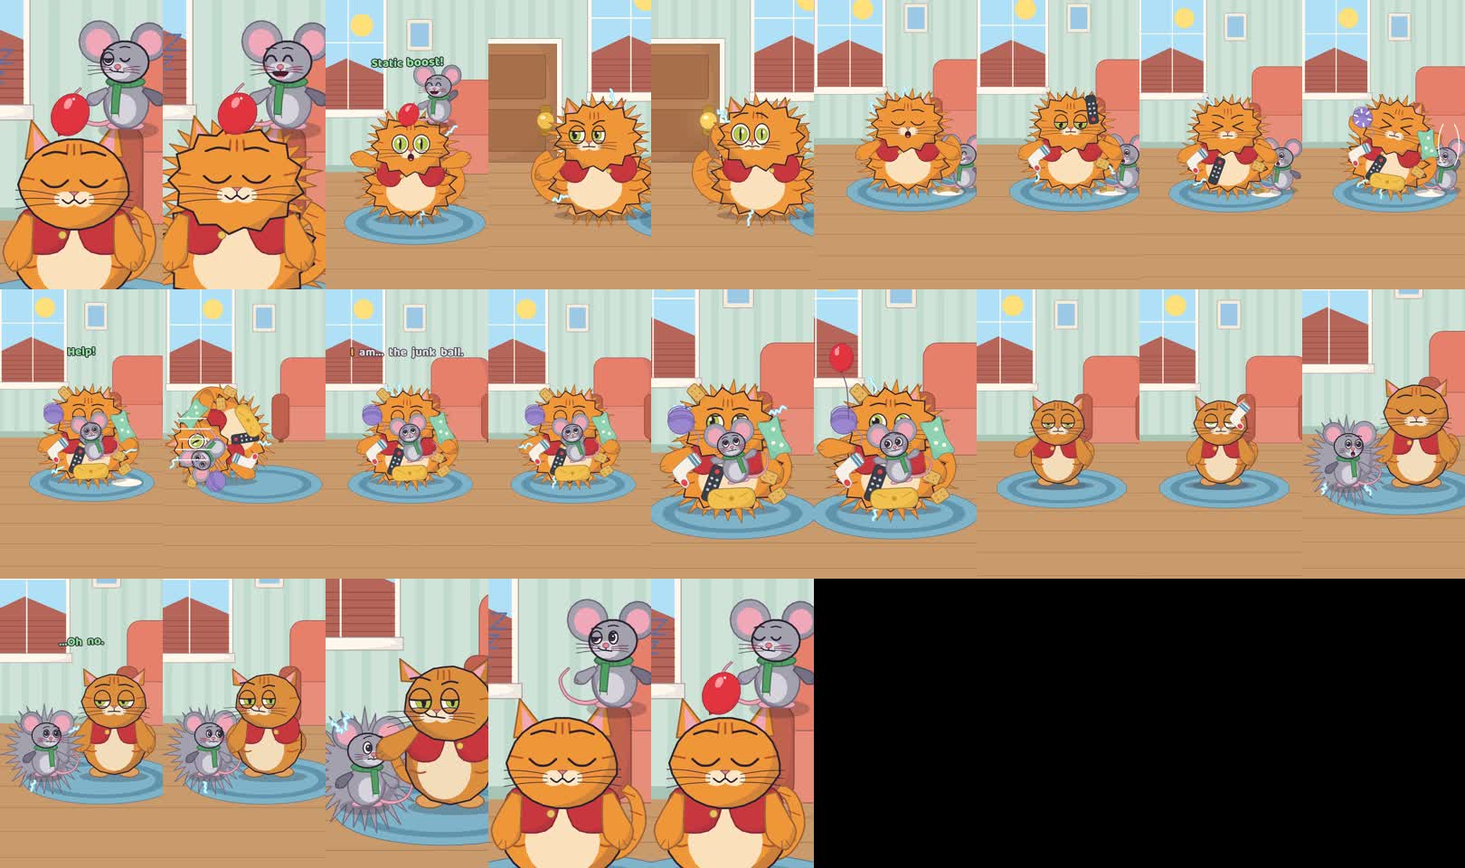
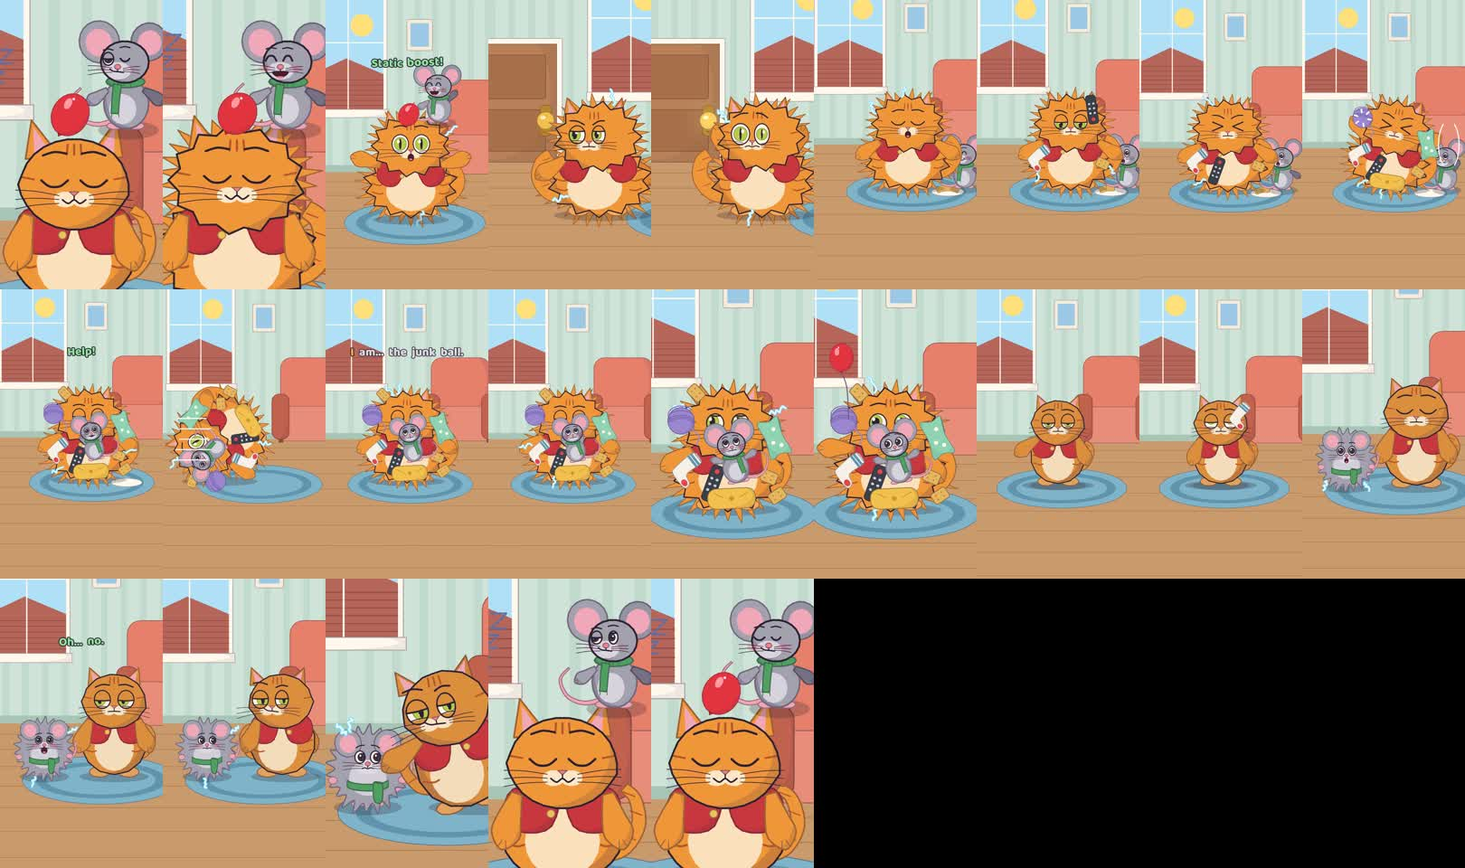
12-static-zap: more emotional voices (pick_takes.py: pitch/loudness scoring + whisper word check), puffball Pip 'tufts', rig: wet ears no longer float
Claude-Session: https://claude.ai/code/session_01WxLgLCMvMcVaDmvrqqXGT7

diff --git a/stories/12-static-zap/src/props.js b/stories/12-static-zap/src/props.js
@@ -180,3 +180,85 @@ function puffPip(x, y, u, o, k, t) {
   pip(x, y, u, o);
   if (o.sparks !== false) { push(); translate(x, y + dy); sparks(0, -3.0 * u, 3.1 * u * r, 3.4 * u * r, t, 2, 1.2 * u, 9); pop(); }
 }
+
+// ---------- puffball Pip v2: four candidate looks (style 'cotton' | 'dandelion' | 'tufts' | 'frizz') ----------
+// A soft scalloped outline: bumps round an ellipse (cx, cy, rx, ry), n bumps, bump size b (0..1 of the radius).
+function fluffPts(cx, cy, rx, ry, n = 16, b = .12, t = 0, wob = 0, seed = 1) {
+  const pts = [];
+  for (let i = 0; i < n; i++) for (let k = 0; k <= 6; k++) {
+    const a = (i + k / 6) / n * TAU, bump = Math.sin(k / 6 * Math.PI) * b * (1 + .25 * hash(i + seed)) + wob * Math.sin(t * 25 + i) * .02;
+    pts.push([cx + Math.cos(a) * rx * (1 + bump), cy + Math.sin(a) * ry * (1 + bump)]);
+  }
+  return pts;
+}
+// Pip's face, ears, feet and tail on their own (for the ball looks): the body is hidden inside the fluff.
+function pipBits(u, o, sw, part) {
+  const C = PIP_COL, cu = CAST_CUTE;
+  if (part === 'back') {   // tail, standing bristly, and the feet
+    paint(ribbon(_P(u, [[1.6, -1.0], [2.8, -1.6], [3.6, -2.9], [3.5, -4.0]]), u * .34, u * .14), { wash: C.tail, ink: PAL.ink, sw: sw * .6 });
+    for (let k = 0; k < 5; k++) { const y = -1.3 - k * .55, x = 2.1 + k * .32; inkLine([[x * u, y * u], [(x + .35) * u, (y - .25) * u]], sw * .8, C.tail, 'ink', 0); }
+    for (const s of [-1, 1]) paint(ellPts(s * .8 * u, -.2 * u, .55 * u, .25 * u, 10), { wash: C.tail, ink: PAL.ink, sw: sw * .6 });
+  }
+}
+function puffPip2(x, y, u, o, k, t, style = 'cotton') {
+  const C = PIP_COL, sw = clamp(u / 17, .45, 2.6) * .93, r = 1 + .3 * Math.max(0, k - 1), dy = (o.dy || 0) * u;
+  const cx = 0, cy = -3.1 * u, rx = 2.6 * u * r, ry = 2.75 * u * r;
+  push(); translate(x, y + dy); rotate(o.rot || 0);
+  if (!o.noShadow) castShadow(0, 0, u * 2.6 * r, u, o.dy);
+  pipBits(u, o, sw, 'back');
+  if (style === 'cotton') {
+    paint(fluffPts(cx, cy, rx * 1.08, ry * 1.08, 14, .14, t, 1, 3), { wash: C.dk, ink: null });
+    paint(fluffPts(cx, cy, rx, ry, 14, .14, t, 1, 3), { wash: mixCol(C.col, '#FFFFFF', .18), ink: PAL.ink, sw: sw * .9, shade: true, shadeK: .5 });
+    for (let i = 0; i < 9; i++) { const a = hash(i * 3) * TAU, d = .35 + .45 * hash(i * 5); const px = cx + Math.cos(a) * rx * d, py = cy + Math.sin(a) * ry * d; inkLine(arcPts(px, py, u * .35, u * .2, Math.PI * 1.1, Math.PI * 1.9, 5), sw * .7, C.dk, 'ink', .3); }
+    for (const s of [-1, 0, 1]) paint(fluffPts(cx + s * .55 * u, cy - ry * 1.02 - (s ? 0 : .25 * u), .5 * u, .55 * u, 5, .25, t, 1, 4 + s), { wash: mixCol(C.col, '#FFFFFF', .18), ink: PAL.ink, sw: sw * .8 });   // a tuft on top
+  } else if (style === 'dandelion') {
+    for (let i = 0; i < 90; i++) { const a = i / 90 * TAU + hash(i) * .05, l = 1 + .12 * hash(i * 7) + .02 * Math.sin(t * 30 + i); inkLine([[cx + Math.cos(a) * rx * .5, cy + Math.sin(a) * ry * .5], [cx + Math.cos(a) * rx * 1.2 * l, cy + Math.sin(a) * ry * 1.2 * l]], sw * .9, i % 3 ? C.col : C.lt, 'ink', 0); }
+    paint(ellPts(cx, cy, rx * .95, ry * .95, 30), { wash: C.col, washOp: 200, ink: null });
+  } else if (style === 'tufts') {
+    const pts = []; for (let i = 0; i < 44; i++) { const a = i / 44 * TAU, out = i % 2 ? 1.18 + .1 * hash(i) + .03 * Math.sin(t * 30 + i) : .96; pts.push([cx + Math.cos(a + (i % 2 ? .05 : 0)) * rx * out, cy + Math.sin(a) * ry * out]); }
+    paint(pts, { wash: C.col, ink: PAL.ink, sw: sw * .9, curv: .35, shade: true, shadeK: .5 });
+    paint(ellPts(cx, cy + ry * .25, rx * .55, ry * .5, 20), { wash: C.lt, washOp: 200, ink: null });
+  }
+  if (style !== 'frizz') {
+    // ears poke out of the top, face sits in the upper middle of the ball
+    push(); translate(cx, cy - ry * .25);
+    for (const s of [-1, 1]) { push(); translate(s * 1.5 * u * r, -1.25 * u * r); rotate(s * .45); paint(ellPts(0, 0, 1.1 * u, 1.15 * u, 18), { wash: C.col, ink: PAL.ink, sw: sw * .8 }); paint(ellPts(0, .05 * u, .72 * u, .76 * u, 14), { wash: C.inner, ink: null }); pop(); }
+    pipFace(u, o, sw, t);
+    pop();
+    // the scarf round the "neck" of the ball, its end flapping, and two tiny paws poking out of the sides
+    const ny = cy + ry * .38;
+    paint([...arcPts(cx, ny - .3 * u, rx * .62, .45 * u, Math.PI * .92, Math.PI * .08, 12), ...arcPts(cx, ny + .25 * u, rx * .62, .45 * u, Math.PI * .08, Math.PI * .92, 12)], { wash: C.scarf, ink: PAL.ink, sw: sw * .8 });
+    paint([[cx + .5 * u, ny], [cx + 1.2 * u, ny + .1 * u], [cx + 1.1 * u + Math.sin(t * 12) * .1 * u, ny + 1.6 * u], [cx + .55 * u, ny + 1.5 * u]], { wash: C.scarf, ink: PAL.ink, sw: sw * .8, curv: .3 });
+    for (const s of [-1, 1]) paint(ellPts(cx + s * rx * 1.02, cy + ry * .3 + Math.sin(t * 9 + s) * 3, .38 * u, .3 * u, 10), { wash: C.tail, ink: PAL.ink, sw: sw * .6 });
+    if (o.sparks !== false) sparks(cx, cy, rx * 1.15, ry * 1.15, t, 2, 1.1 * u, 9);
+    pop(); return;
+  }
+  pop();
+  // frizz: Pip as usual, with a big frizzy hair cloud BEHIND his head (it frames the face) and a bottle-brush tail
+  push(); translate(x, y + dy - 6.3 * u);
+  paint(fluffPts(0, 0, 2.6 * u * r, 1.9 * u * r, 12, .2, t, 1, 5), { wash: C.dk, ink: PAL.ink, sw: sw * .8 });
+  for (let i = 0; i < 7; i++) { const a = Math.PI + (i + .5) / 7 * Math.PI; inkLine(arcPts(Math.cos(a) * 1.9 * u, Math.sin(a) * 1.3 * u, .3 * u, .2 * u, 0, 4, 6), sw * .7, PAL.ink, 'ink', .3); }
+  pop();
+  pip(x, y, u, { ...o, noShadow: true });
+  if (o.sparks !== false) sparks(x, y + dy - 4 * u, 2.6 * u, 3.4 * u, t, 2, 1.1 * u, 9);
+}
+// Pip's front face (eyes, brows, snout, nose, mouth, whiskers, blush) at the origin, head radius ~1.5u. Mirrors pip()'s
+// front view, so faces()/who still work.
+function pipFace(u, o, sw, t) {
+  const C = PIP_COL, cu = CAST_CUTE, hs = 1 + cu * .18;
+  const talk = o.talk ?? (o.who && typeof SPEAK === 'function' ? SPEAK(o.who, T) : 0);
+  push(); scale(hs, hs);
+  paint(ellPts(0, .55 * u, .85 * u, .55 * u, 14), { wash: C.lt, washOp: 230, ink: null });
+  const blush = clamp((o.blush || 0) + cu * .35);
+  if (blush) for (const s of [-1, 1]) paint(ellPts(s * .95 * u, .4 * u, (.36 + cu * .08) * u, (.2 + cu * .04) * u, 10), { wash: '#E8607A', washOp: 160 * blush, ink: null });
+  const kinds = Array.isArray(o.eyes) ? o.eyes : [o.eyes || 'open', o.eyes || 'open'];
+  for (const s of [-1, 1]) {
+    const ex = s * .58 * u, ey = -.2 * u;
+    push(); translate(ex, ey); castEye(kinds[s < 0 ? 0 : 1], s, .3 * u * (1 + cu * .2), .36 * u * (1 + cu * .2), { ...o, cute: cu }, sw * .8, C.col, '#3A3045', 'cat'); pop();
+    castBrow(ex, ey, .55 * u, .55 * u, s, o.brow || 0, (o.browUp || 0) + (s < 0 ? o.browL || 0 : o.browR || 0), sw * .6);
+  }
+  paint(ellPts(0, .3 * u, .2 * u, .16 * u, 10), { wash: C.nose, ink: PAL.ink, sw: sw * .45 });
+  push(); translate(0, .45 * u); castMouth(o.mouth || 'w', talk, .6 * u, sw * .8); pop();
+  for (const s of [-1, 1]) castWhiskers(s * .35 * u, .5 * u, s, 1.5 * u, sw * .8);
+  pop();
+}

diff --git a/stories/12-static-zap/src/scenes/shots.js b/stories/12-static-zap/src/scenes/shots.js
@@ -201,21 +201,21 @@
     pumpkin(KX, FY, U, { ...faces(t, [[32.5, 'soggy', { lid: .55 }], [34.0, 'soggy', { lid: .55, lookX: -1 }], [36.4, 'smug', { lookX: -1 }]]), wet: .45, view: t > 36 ? 'q' : 'front', flip: t > 36, aL: -1.2, aR: -1.2, boilKey: 'pk' });
     const fall = seg(t, 32.5, land), bounce = t > land ? Math.abs(Math.sin((t - land) * 9)) * Math.exp(-(t - land) * 5) * .9 : 0;
     const py = t < land ? lerp(FY - 1100, FY, easeIn(fall)) : FY;
-    puffPip(PX, py, U, { ...faces(t, [[32.5, 'panic'], [land, 'surprised', { eyes: 'wide' }], [34.4, 'neutral', { lookY: 1, lookX: -.3 }], [34.9, 'sheepish', { lookY: .2 }]]), view: 'q', dy: -bounce, aL: t > 34.3 && t < 34.9 ? .3 : -.7, aR: -.7, who: 'pip', noShadow: t < land, boilKey: 'pip' }, t < land ? 1.1 : 1.3, t);
+    puffPip2(PX, py, U, { ...faces(t, [[32.5, 'panic'], [land, 'surprised', { eyes: 'wide' }], [34.4, 'neutral', { lookY: 1, lookX: -.3 }], [34.9, 'sheepish', { lookY: .2 }]]), view: 'q', dy: -bounce, aL: t > 34.3 && t < 34.9 ? .3 : -.7, aR: -.7, who: 'pip', noShadow: t < land, boilKey: 'pip' }, t < land ? 1.1 : 1.3, t, 'tufts');
     burst(PX, FY - 120, 180, (t - land) / .35, 10, '#FFFFFF', 7);
     camEnd();
   }
 
   // 10 · 38–42 · Close: one soggy paw reaches out, slowly, to Pip's nose. "Boop." CRACK! Pip doubles in size.
   function s10(t) {
-    const PX = 300, KX = 600, zap = 40.6, z = lerp(1.45, 2.0, ease(seg(t, 38, 38.6)));
-    cam(lerp(470, 440, ease(seg(t, 38, 38.6))), lerp(1300, 1265, ease(seg(t, 38, 38.6))), z, shake(t, zap, 16, .5));
+    const PX = 300, KX = 660, zap = 40.6, z = lerp(1.45, 2.0, ease(seg(t, 38, 38.6)));
+    cam(lerp(470, 430, ease(seg(t, 38, 38.6))), lerp(1300, 1265, ease(seg(t, 38, 38.6))), z, shake(t, zap, 16, .5));
     room(t);
     const reach = ease(seg(t, 38.6, 40.2));
     const k = t < zap ? 1.3 : lerp(1.3, 2.2, backOut(seg(t, zap, zap + .3)));
-    puffPip(PX, FY, U, { ...faces(t, [[38, 'sheepish', { lookX: 1 }], [39.4, 'panic', { lookX: 1, eyes: 'wide' }], [zap, 'surprised', { eyes: 'wide', pupil: 0 }], [41.4, 'deadpan', { lookX: 1 }]]), view: 'q', aL: -.7, aR: -.7, boilKey: 'pip' }, k, t);
-    pumpkin(KX, FY, U, { ...faces(t, [[38, 'smug', { lookX: -1 }], [zap, 'happy', { mouth: 'grin' }]]), wet: .45, view: 'q', flip: true, aR: lerp(-1.2, -.6, reach) + (t > zap ? .5 * ease(seg(t, zap, zap + .2)) : 0), aL: -1.2, who: 'pumpkin', boilKey: 'pk' });
-    if (t > zap && t < zap + .4) zapBolt(345, 1355, 250, 1250, t, 5, 8);
+    puffPip2(PX, FY, U, { ...faces(t, [[38, 'sheepish', { lookX: 1 }], [39.4, 'panic', { lookX: 1, eyes: 'wide' }], [zap, 'surprised', { eyes: 'wide', pupil: 0 }], [41.4, 'deadpan', { lookX: 1 }]]), view: 'q', aL: -.7, aR: -.7, boilKey: 'pip' }, k, t, 'tufts');
+    pumpkin(KX, FY, U, { ...faces(t, [[38, 'smug', { lookX: -1 }], [zap, 'happy', { mouth: 'grin' }]]), wet: .45, view: 'q', flip: true, rot: -.25 * reach * (1 - ease(seg(t, zap + .2, zap + .6))), aR: lerp(-1.2, -.4, reach) - (t > zap ? .8 * ease(seg(t, zap, zap + .35)) : 0), aL: -1.2, who: 'pumpkin', boilKey: 'pk' });
+    if (t > zap && t < zap + .4) zapBolt(310, 1372, 190, 1240, t, 5, 8);
     flash(t > zap && t < zap + .08 ? .9 : 0, 440, 1300);
     camEnd();
   }

diff --git a/stories/12-static-zap/src/cover.js b/stories/12-static-zap/src/cover.js
@@ -11,6 +11,24 @@
     zapBolt(450, 1700, 750, 1650, t, 4);
   };
   LOOPS.props.len = 2;
+  LOOPS.pipball = t => {
+    paint(rectPts(-10, -10, W + 20, H + 20), { wash: '#CFE3D8', ink: null });
+    paint(rectPts(-10, 1500, W + 20, 500), { wash: '#C99A6B', ink: null });
+    const F = { ...face('surprised', { eyes: 'wide' }) };
+    [['cotton', 270, 820], ['dandelion', 810, 820], ['tufts', 270, 1700], ['frizz', 810, 1700]].forEach(([st, x, y], i) => {
+      puffPip2(x, y, 44, { ...F, view: 'front', aL: -.7, aR: -.7, boilKey: 'pb' + i }, 1.3, t, st);
+      letter(['A cotton', 'B dandelion', 'C tufts', 'D frizz'][i], x, y - 560, 70, '#2B2233', { font: '800 70px "Baloo 2", sans-serif', screen: true });
+    });
+  };
+  LOOPS.pipball.len = 2;
+  LOOPS.wetears = t => {
+    paint(rectPts(-10, -10, W + 20, H + 20), { wash: '#CFE3D8', ink: null });
+    [[0, 'front', false], [.45, 'front', false], [1, 'front', false], [0, 'q', true], [.45, 'q', true], [1, 'q', false]].forEach(([w, v, f], i) => {
+      pumpkin(200 + (i % 3) * 340, 860 + Math.floor(i / 3) * 900, 34, { ...face('soggy'), wet: w, view: v, flip: f, boilKey: 'we' + i });
+      letter('wet ' + w + ' ' + v, 200 + (i % 3) * 340, 300 + Math.floor(i / 3) * 900, 46, '#2B2233', { font: '800 46px "Baloo 2", sans-serif', screen: true });
+    });
+  };
+  LOOPS.wetears.len = 2;
   LOOPS.cover = t => {
     paint(rectPts(-10, -10, W + 20, H + 20), { wash: '#2E3A6E', ink: null });
     const cx = 540, cy = 1150;

diff --git a/stories/12-static-zap/src/dialog.js b/stories/12-static-zap/src/dialog.js
@@ -1,8 +1,8 @@
 // dialog.js: written by engine/dialog.mjs (do not edit). DIALOG rows [t0, who, env], env = mouth level 0-9 per 1/24 s
 // from t0. SPEAK(who, t): that character's mouth level 0..1 at video time t, held for 1/12 s. LY: [[start, end, text, who]]
 // for subs.js (each line's speech start and end).
-const DIALOG = [[3.117,"pip","00499974520100027653111102000"],[17.517,"pip","014999101030000000000000"],[21.792,"pumpkin","0000099975432211000000004835996620301432111000000"],[34.958,"pip","0687543333579998533210000"],[40.158,"pumpkin","09972001100000"]];
-const LY = [[3.2,4.2,"Static boost!","pip"],[17.6,17.975,"Help!","pip"],[22,23.459,"I am... the junk ball.","pumpkin"],[35,35.791,"...Oh no.","pip"],[40.2,40.366,"Boop.","pumpkin"]];
+const DIALOG = [[3.117,"pip","012015599799810100015542101110100000"],[17.475,"pip","000279989997120000110000"],[21.917,"pumpkin","0199999997331100000056117998432016554310000"],[35,"pip","27975433222112223799998885321111000000"],[40.2,"pumpkin","599400000000"]];
+const LY = [[3.2,4.117,"Static boost!","pip"],[17.6,18.058,"Help!","pip"],[22,23.5,"I am... the junk ball.","pumpkin"],[35,36.167,"Oh... no.","pip"],[40.2,40.367,"Boop.","pumpkin"]];
 function SPEAK(who, t) {
   const tq = Math.floor(t * 12) / 12;
   for (const [t0, w, env] of DIALOG) {

diff --git a/engine/cast/pumpkin_pip.js b/engine/cast/pumpkin_pip.js
@@ -277,8 +277,9 @@ function pumpkin(x, y, u, o = {}) {
   const hx = 3.35 * u * (1 + puff * .18 - wet * .1) * hs, hy = 2.85 * u * (1 + puff * .12 - wet * .05) * hs, fx = q * 1.0 * u;
   push(); scale(hs, hs);
   for (const s of [-1, 1]) {   // ears (the head covers their bases)
-    const far = q && s < 0, ex = s * 1.95 * u + fx * .5 - (far ? .35 * u : 0), droop = wet * .9;
-    const tip = [ex + s * .65 * u * (1 + cu * .2) + s * droop * u * 1.2, (-3.85 * u - cu * .3 * u) + droop * 1.6 * u];
+    // wet: the ears slide in toward the crown and fold down, so their bases stay inside the head (no floating flaps)
+    const far = q && s < 0, droop = wet * .9, ex = s * 1.95 * u + fx * .5 - (far ? .35 * u : 0) - s * wet * .8 * u;
+    const tip = [ex + s * .65 * u * (1 + cu * .2) + s * droop * u * .6, (-3.85 * u - cu * .3 * u) + droop * 1.3 * u];
     paint([[ex - 1.1 * u, -1.6 * u], tip, [ex + 1.1 * u, -1.7 * u]], { wash: far ? mixCol(col, dk, .3) : col, ink: PAL.ink, sw: sw * .85 });
     paint([[ex - .55 * u, -1.9 * u], [lerp(ex, tip[0], .85), lerp(-1.9 * u, tip[1], .8)], [ex + .55 * u, -1.95 * u]], { wash: C.inner, ink: null });
   }

diff --git a/engine/pick_takes.py b/engine/pick_takes.py
@@ -1,0 +1,120 @@
+#!/usr/bin/env python3
+"""pick_takes.py: score every take in out/voice/takes for emotion and copy the best one of each line to out/voice/raw.
+
+Run from a story folder, after `voice.py --takes N`:
+    ../../.venv/bin/python ../../engine/pick_takes.py            # score, pick, copy
+    ../../.venv/bin/python ../../engine/pick_takes.py --dry      # only print the table
+
+What it measures per take (after trimming silence):
+  speech   seconds of speech;  pad = leading/trailing silence Chatterbox added (bad: it drags the timing)
+  f0       median pitch (Hz);  range = pitch spread p5..p95 (Hz): the "melody" of the line, the main sign of emotion
+  loud     average loudness of the voiced part (dB);  gap = longest pause inside the line (s)
+How it scores (from the line's `exag` in scripts/lines.json):
+  exag >= .6  (excited, scared, smug...): more pitch range and loudness win, relative to the line's other takes
+  exag <  .6  (deadpan, calm, tired): a flat line wins (small range), with a clear pause allowed (comic timing)
+  every take: minus padding and minus speech much longer than the median take (stretched / mumbled takes)
+  words: if faster-whisper is installed (pip install faster-whisper), each take is transcribed and a take whose words
+         don't match the line is disqualified (WRONG). Very high exag (~1.0) or ALL CAPS often garbles Chatterbox's words:
+         keep exag <= .9 and normal case, and record more takes instead.
+Also writes out/voice/compare/<id>.wav: all takes of a line back to back (best first) to listen and overrule.
+"""
+import argparse, difflib, json, re, shutil, subprocess, sys
+from pathlib import Path
+import numpy as np, librosa
+
+ROOT = Path.cwd()
+TAKES, RAW, CMP = ROOT / "out/voice/takes", ROOT / "out/voice/raw", ROOT / "out/voice/compare"
+
+
+def measure(path):
+    y, sr = librosa.load(path, sr=24000)
+    total = len(y) / sr
+    yt, idx = librosa.effects.trim(y, top_db=35)
+    speech = len(yt) / sr
+    f0, _, _ = librosa.pyin(yt, fmin=60, fmax=700, sr=sr, frame_length=1024)
+    v = f0[~np.isnan(f0)]
+    rng = float(np.percentile(v, 95) - np.percentile(v, 5)) if len(v) > 4 else 0.0
+    med = float(np.median(v)) if len(v) else 0.0
+    rms = librosa.feature.rms(y=yt, frame_length=1024, hop_length=256)[0]
+    loud = float(20 * np.log10(rms[rms > rms.max() * .1].mean() + 1e-9))
+    quiet = rms < rms.max() * .06
+    gap, run = 0, 0
+    for q in quiet:
+        run = run + 1 if q else 0
+        gap = max(gap, run)
+    return dict(total=total, speech=speech, pad=total - speech, f0=med, range=rng, loud=loud, gap=gap * 256 / sr)
+
+
+_ASR = None
+def heard(path):
+    """What the take actually says (faster-whisper base.en), or None if it isn't installed."""
+    global _ASR
+    if _ASR is None:
+        try:
+            from faster_whisper import WhisperModel
+            _ASR = WhisperModel("base.en", device="cpu", compute_type="int8")
+        except ImportError:
+            _ASR = False
+    if not _ASR:
+        return None
+    y, _ = librosa.load(path, sr=16000)
+    segs, _ = _ASR.transcribe(y, beam_size=5)
+    return " ".join(s.text.strip() for s in segs)
+
+
+def norm(s):
+    return re.sub(r"[^a-z ]", "", s.lower().replace("-", " ")).split()
+
+
+def match(text, said):
+    return difflib.SequenceMatcher(None, " ".join(norm(text)), " ".join(norm(said))).ratio()
+
+
+def z(vals):
+    a = np.array(vals, float)
+    return (a - a.mean()) / (a.std() + 1e-6) if len(a) > 1 else a * 0
+
+
+def main():
+    ap = argparse.ArgumentParser()
+    ap.add_argument("--dry", action="store_true")
+    a = ap.parse_args()
+    lines = json.loads((ROOT / "scripts/lines.json").read_text())
+    RAW.mkdir(parents=True, exist_ok=True)
+    CMP.mkdir(parents=True, exist_ok=True)
+    print(f"{'take':22s} {'speech':>6} {'pad':>5} {'f0':>5} {'range':>6} {'loud':>6} {'gap':>5} {'score':>6}")
+    for ln in lines:
+        takes = sorted(TAKES.glob(f"{ln['id']}_{ln['who']}_*.wav"))
+        if not takes:
+            continue
+        m = [measure(p) for p in takes]
+        for p, x in zip(takes, m):
+            x["said"] = heard(p)
+            x["ok"] = x["said"] is None or match(ln["text"], x["said"]) >= .85
+        sp = np.median([x["speech"] for x in m])
+        excited = ln.get("exag", .5) >= .6
+        if excited:
+            s = z([x["range"] for x in m]) + .7 * z([x["loud"] for x in m])
+        else:
+            s = -z([x["range"] for x in m]) + .3 * z([min(x["gap"], .8) for x in m])
+        s = s - 2.0 * np.array([max(0, x["pad"] - .35) for x in m]) - 1.5 * np.array([max(0, x["speech"] / sp - 1.3) for x in m])
+        s = s - 10.0 * np.array([0 if x["ok"] else 1 for x in m])
+        order = np.argsort(-s)
+        for i in order:
+            x = m[i]
+            print(f"{takes[i].stem:22s} {x['speech']:6.2f} {x['pad']:5.2f} {x['f0']:5.0f} {x['range']:6.0f} {x['loud']:6.1f} {x['gap']:5.2f} {s[i]:6.2f}"
+                  + ("  <- best" if i == order[0] else "") + ("" if x["said"] is None else f'  "{x["said"]}"' + ("" if x["ok"] else "  WRONG")))
+        if not any(x["ok"] for x in m):
+            print(f"   !! no take of {ln['id']} says the line: record more takes (voice.py --takes 6 {ln['id']}) or lower its exag")
+        print(f"   [{ln.get('emo', '')}] {ln['text']}")
+        best = takes[order[0]]
+        if not a.dry:
+            shutil.copy(best, RAW / f"{ln['id']}_{ln['who']}.wav")
+        # all takes back to back, best first, .6 s apart: listen and overrule by copying another take to out/voice/raw
+        ins = sum([["-i", str(takes[i])] for i in order], [])
+        fc = "".join(f"[{k}]apad=pad_dur=0.6[a{k}];" for k in range(len(order))) + "".join(f"[a{k}]" for k in range(len(order))) + f"concat=n={len(order)}:v=0:a=1"
+        subprocess.run(["ffmpeg", "-y", "-loglevel", "error", *ins, "-filter_complex", fc, str(CMP / f"{ln['id']}.wav")], check=True)
+
+
+if __name__ == "__main__":
+    sys.exit(main())

diff --git a/.claude/skills/pumpkin-pip-shorts/SKILL.md b/.claude/skills/pumpkin-pip-shorts/SKILL.md
@@ -59,6 +59,13 @@ then replace STORYBOARD, lines.json, props.js, scenes, sfx.mjs, music.mjs.
 2. **Dialogue** (`scripts/lines.json`: id, who, shot, t, text, emo, exag 0.25-1, cfg, speed, pitch). Then
    `voice.py` → `timing.py` (0 OVER) → `dialog.mjs` (writes `src/dialog.js`: lip-sync + LY for subtitles).
    Chatterbox sometimes pads short lines (e.g. "Big lunch?" came out 1.9 s): move the line or retake (`--takes 3`).
+   - **USER RULE: emotion first.** Every line must sound like its `emo`, not read out. Push `exag` (.8–.9 for excited,
+     scared, smug; .35–.45 for deadpan, where flatness IS the joke) and lower `cfg` (.3–.35) for livelier pacing, then
+     record `--takes 4` (6 for one-word shouts) and run `engine/pick_takes.py`: it scores each take's pitch range and
+     loudness against the line's exag, transcribes it with faster-whisper and disqualifies takes with wrong words,
+     copies the winner to out/voice/raw and writes out/voice/compare/<id>.wav (all takes, best first) to overrule by ear.
+   - exag 1.0 or ALL CAPS garbles Chatterbox (story 12: "Static BOOST!" came out "So, how did you go through the
+     post, Kyle?" in every take). Keep exag <= .9 and normal case; buy emotion with more takes, not higher numbers.
 3. **Sets and props** (`src/props.js`): fixed coordinates in a 1080x1920 world, one function per set.
 4. **Shots** (`src/scenes/shots.js`): one function per shot, `shots([[t0, fn], ...])`, every frame a pure function of t.
    - Faces: `faces(t, [[t0, 'name', {overrides}], ...])` (18 presets in `CAST_FACES`). Mouths: `who: 'pumpkin'`.
@@ -106,6 +113,10 @@ then replace STORYBOARD, lines.json, props.js, scenes, sfx.mjs, music.mjs.
   The `cute` dial changes only scale/blush/sparkle (not shape), so these rules still hold; head-fitted props (story 11's
   shark hoods) keep working because the hoods enclose a larger head, but check a still before a full render.
 
+- `wet` used to fold Pumpkin's ears OUT sideways so they floated off the head (user caught it in story 12, front and q
+  views). Fixed in the rig (ears slide in toward the crown); still look at the ears in any wet/puff still.
+- Puffball Pip (story 12, user's pick "C tufts"): `puffPip2(x, y, u, o, k, t, 'tufts')` in stories/12-static-zap/src/props.js:
+  a jagged fur ball hiding the body, face/ears/scarf/paws/tail poking out. Copy it rather than drawing a halo behind pip().
 - Costumes that sit on the face or head (moustache, headband) belong in the rig (`mustache`, `headband` options in
   `pumpkin_pip.js`) so they turn with the head in front / q / side views. Never draw them in body space in a story.
 - `letter()` draws in world coordinates (it ignores a local push/translate): place text by hand.

diff --git a/RUNBOOK.md b/RUNBOOK.md
@@ -31,7 +31,7 @@ python3 -m venv .venv
 
 ```bash
 .venv/bin/pip install torch==2.6.0 torchaudio==2.6.0 --index-url https://download.pytorch.org/whl/cpu
-.venv/bin/pip install chatterbox-tts
+.venv/bin/pip install chatterbox-tts faster-whisper
 ```
 
 (Mac ใช้ `.venv/bin/pip install chatterbox-tts` ได้เลย จะใช้ GPU ของ Apple ให้อัตโนมัติ)
@@ -51,13 +51,14 @@ Report: `ok` หรือ error
 จาก `stories/<story>`:
 
 ```bash
-../../.venv/bin/python ../../engine/voice.py
+../../.venv/bin/python ../../engine/voice.py --takes 4
+../../.venv/bin/python -I ../../engine/pick_takes.py
 python3 ../../engine/timing.py
 node ../../engine/dialog.mjs
 ffmpeg -y -loglevel error -i out/audio/dialogue.wav -c:a libmp3lame -b:a 128k out/dialogue_preview.mp3
 ```
 
-Report: บรรทัดสุดท้ายของ timing.py (`N lines, X s of speech, K flagged`) และทุกบรรทัดที่มี TIGHT หรือ OVER ส่งไฟล์ `out/dialogue_preview.mp3` ให้ผู้ใช้
+Report: ประโยคที่ pick_takes.py ขึ้น `!! no take` (ถ้ามี), บรรทัดสุดท้ายของ timing.py (`N lines, X s of speech, K flagged`) และทุกบรรทัดที่มี TIGHT หรือ OVER ส่งไฟล์ `out/dialogue_preview.mp3` ให้ผู้ใช้
 Commit: `src/dialog.js`
 
 ## งาน: retake <story> <ids...>

diff --git a/stories/12-static-zap/STATUS.md b/stories/12-static-zap/STATUS.md
@@ -6,3 +6,4 @@
 - [x] 11 ช็อต · drycheck 0 problems · เฟรมแรก = เฟรมสุดท้าย · เพิ่มมุกถุงเท้าตกใส่หัวช่วงเงียบหลังลูกโป่งแตก (กันช่วงนิ่ง 3 วิ)
 - [x] SFX + เพลง (26 ห้อง 138.67 bpm = 45 s, เงียบตอนลูกโป่งแตก) · มิกซ์ -14.8 LUFS
 - [x] `out/video.mp4` 1080x1920 45 s + ปก `out/cover.png` + `YOUTUBE.md`
+- [x] แก้ตามผู้ใช้: (1) เน้นอารมณ์เสียง: exag สูงขึ้น 4–6 เทค เลือกด้วย `engine/pick_takes.py` (วัดช่วงเสียงสูงต่ำ/ความดัง + ถอดคำด้วย whisper ตัดเทคพูดผิด) (2) Pip ตัวฟูแบบใหม่ "C tufts" (`puffPip2`) (3) หูแมวลอยตอนขนแฟบ แก้ใน rig · เรนเดอร์ใหม่แล้ว
